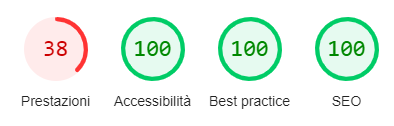
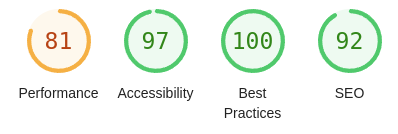
Updated lighthouse reports

diff --git a/doc/report.tex b/doc/report.tex
@@ -270,13 +270,13 @@ Riguardo alla parte frontend, abbiamo preferito concentrare i nostri sforzi sul 
 \begin{figure}
 	\centering
 	\begin{minipage}{0.45\textwidth}
-		\includegraphics[scale=0.7]{lighthouse_report_desktop}
+		\includegraphics[scale=0.5]{lighthouse_report_desktop}
 		\caption{Report di Lighthouse sulla versione desktop}
 		\label{fig:lighthouse_report_desktop}
 	\end{minipage}
 	\hfill
 	\begin{minipage}{0.45\textwidth}
-		\includegraphics[scale=0.7]{lighthouse_report_mobile}
+		\includegraphics[scale=0.5]{lighthouse_report_mobile}
 		\caption{Report di Lighthouse sulla versione mobile}
 		\label{fig:lighthouse_report_mobile}
 	\end{minipage}
